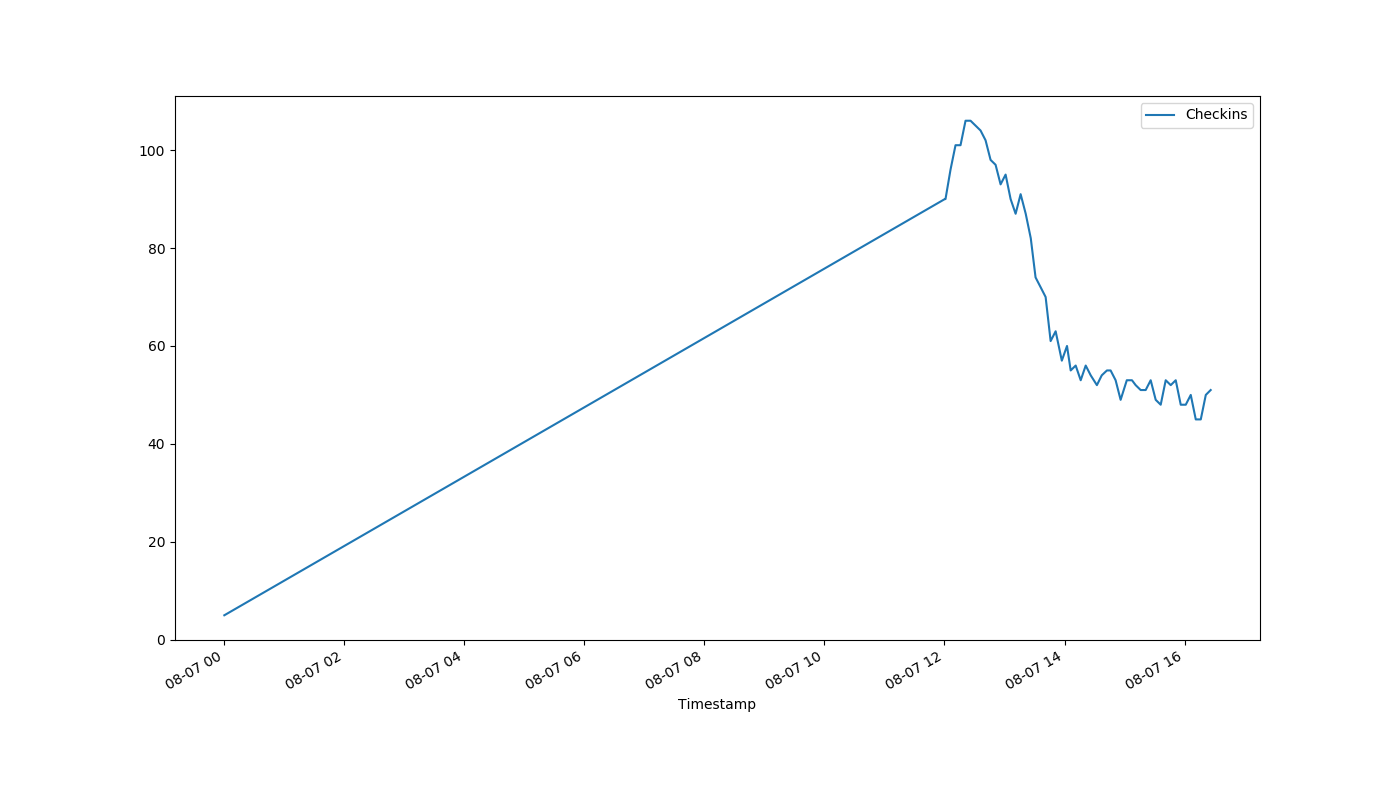
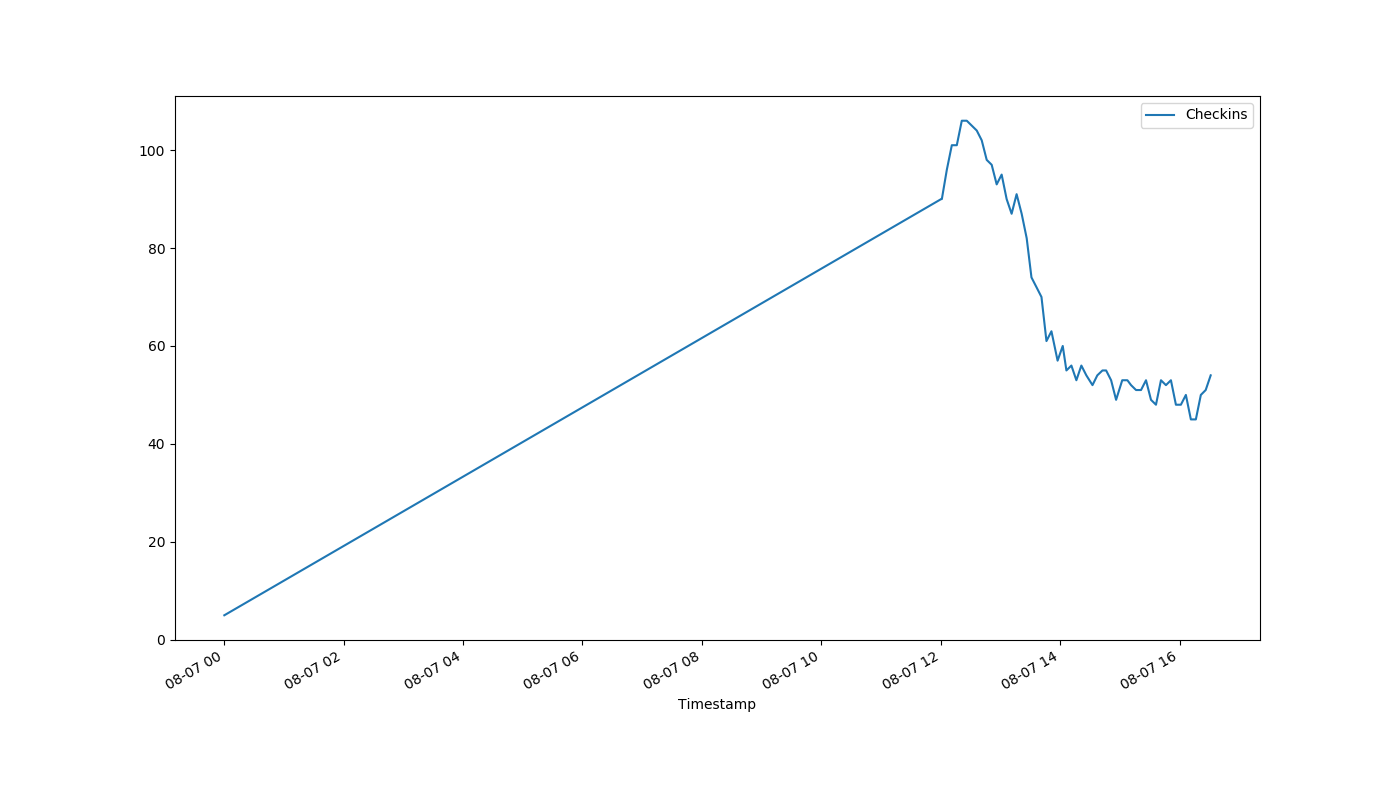
auto-Aug-07-16:32:57

diff --git a/index.html b/index.html
@@ -1,1 +1,1 @@
-<!DOCTYPE html><html><head><meta http-equiv="refresh" content="30"><link rel='stylesheet' href='holmcurrent.css'></head><body><p id='count'>51</p><div id='graph-wrap'><img id='graph' src='holmgraph-Aug-07.png'></div><p id='updated'>Last updated 16:27:00 / 16:26:02</p></body></html>
+<!DOCTYPE html><html><head><meta http-equiv="refresh" content="30"><link rel='stylesheet' href='holmcurrent.css'></head><body><p id='count'>54</p><div id='graph-wrap'><img id='graph' src='holmgraph-Aug-07.png'></div><p id='updated'>Last updated 16:32:00 / 16:31:03</p></body></html>
